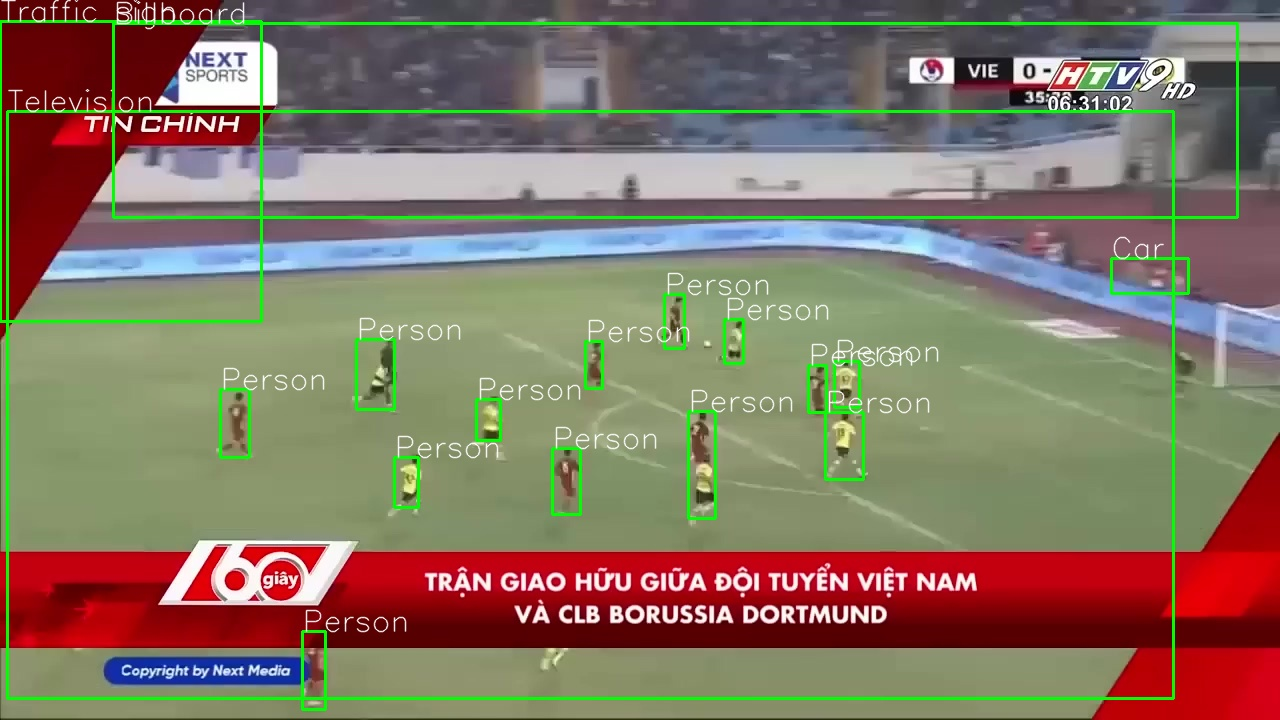
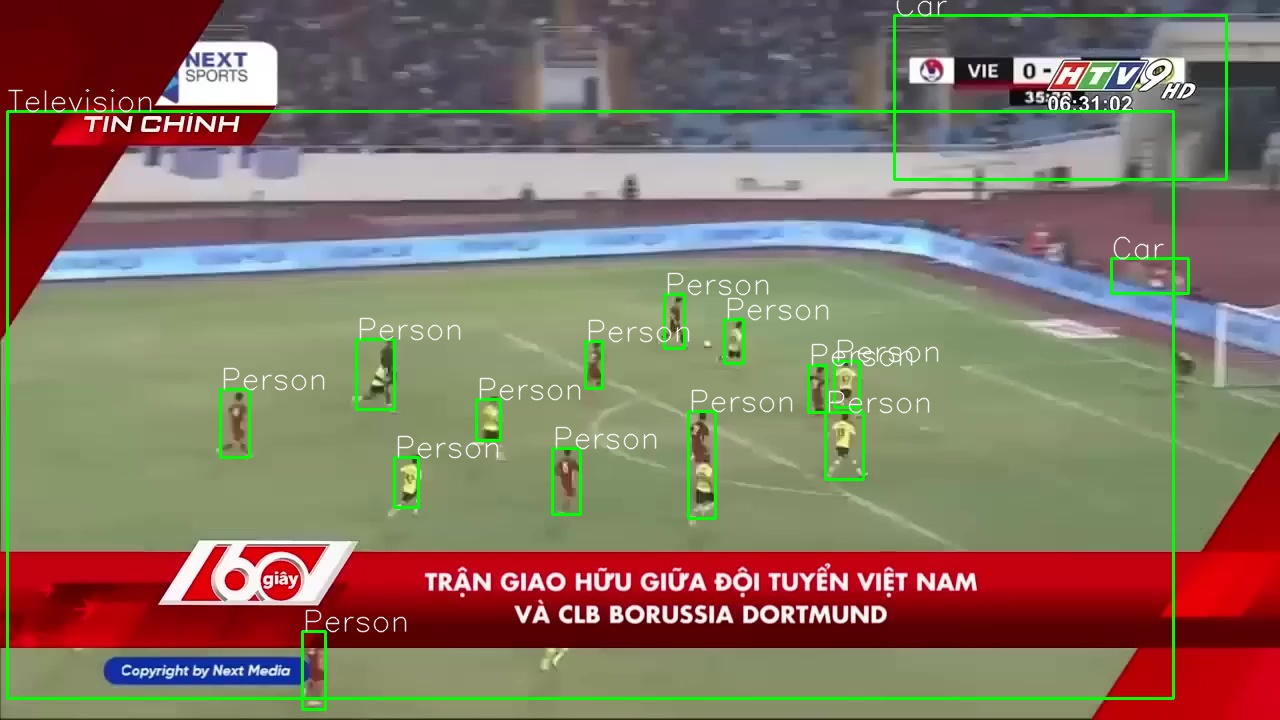
update

Changed region(s): [[0.0, 0.0, 0.9688, 0.4583]]

diff --git a/preprocess_data/demo/nms.py b/preprocess_data/demo/nms.py
@@ -33,7 +33,7 @@ if __name__ == "__main__":
     box_list = []
     keys = list(data.keys()) # 'detection_class_names', 'detection_class_labels', 'detection_scores', 'detection_boxes', 'detection_class_entities'
     number_boxes = len(data[keys[0]])
-    threshold_nms = 0.15
+    threshold_nms = 0.05
 
     shape_image = (720, 1280)
     
@@ -45,14 +45,14 @@ if __name__ == "__main__":
     
     final_boxes = []
     while len(box_list) > 0:
-        a = box_list.pop(0)
-        final_boxes.append(a)
+        current_box  = box_list.pop(0)
+        final_boxes.append(current_box )
         i = 0
         while i < len(box_list):
-            if bb_intersection_over_union(box_list[i][2], a[2]) > threshold_nms:
-                b = box_list.pop(i)
-                i -= 1
-            i += 1
+            if bb_intersection_over_union(box_list[i][2], current_box[2]) > threshold_nms:
+                box_list.pop(i)
+            else:
+                i += 1
     
     img = cv2.imread(img_path)
     
@@ -61,3 +61,6 @@ if __name__ == "__main__":
         img = cv2.putText(img, i[3], i[2][0: 2], cv2.FONT_HERSHEY_SIMPLEX, 1, (255, 255, 255), 1, cv2.LINE_AA)
     
     cv2.imwrite("after_nms.jpg", img)
+    cv2.imshow("nms", img)
+    cv2.waitKey(0)
+    cv2.destroyAllWindows()

diff --git a/preprocess_data/demo/demo.py b/preprocess_data/demo/demo.py
@@ -27,7 +27,9 @@ for i in range(len(classes)):
     thickness = 2
     
     cv2.rectangle(image, (x_min, y_min), (x_max, y_max), color, thickness)
+    image = cv2.putText(image, classes[i], (x_min, y_min), cv2.FONT_HERSHEY_SIMPLEX, 1, (255, 255, 255), 1, cv2.LINE_AA)
 
 cv2.imwrite("before_nms.jpg", image)
-# cv2.waitKey(0)
-# cv2.destroyAllWindows()
+cv2.imshow("demo.py", image)
+cv2.waitKey(0)
+cv2.destroyAllWindows()
